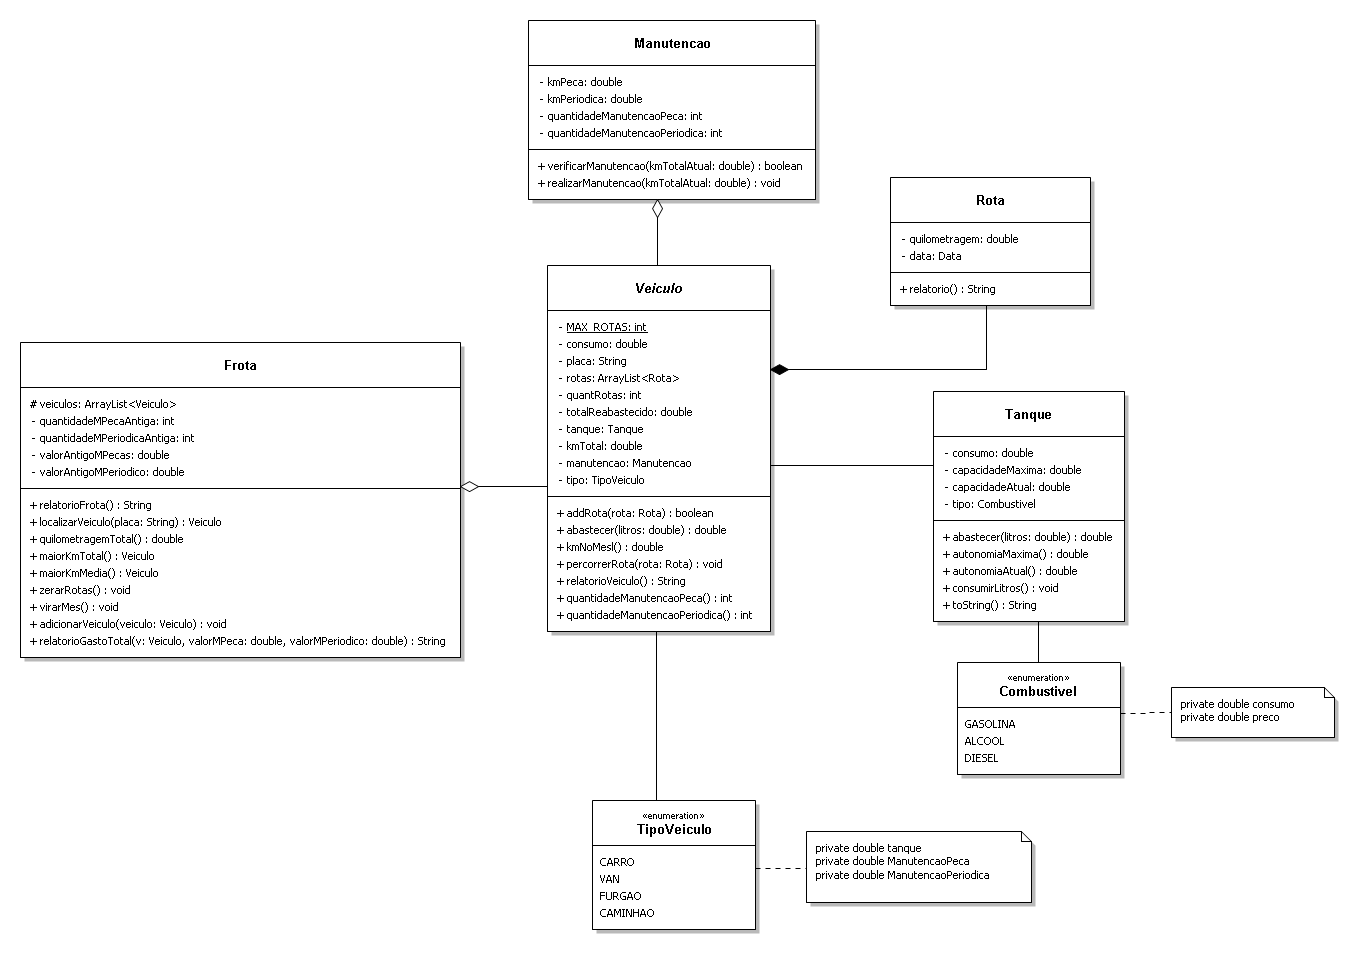
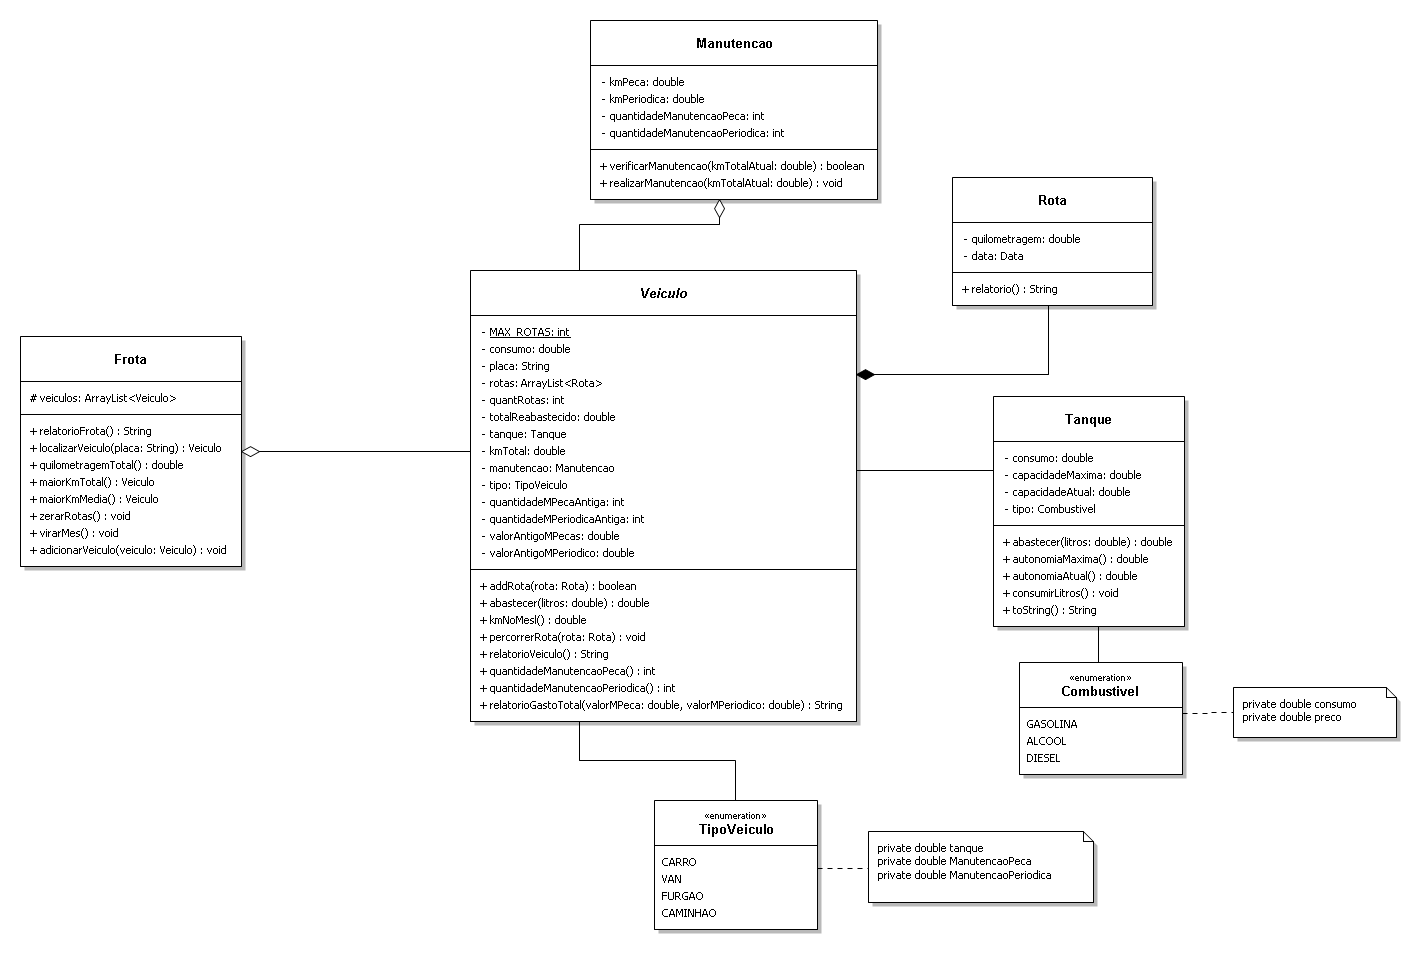
fim

diff --git a/codigo/Veiculo.java b/codigo/Veiculo.java
@@ -13,6 +13,10 @@ public class Veiculo {
     private double kmTotal;
     private Manutencao manutencao;
     private TipoVeiculo tipo;
+    private  int quantidadeMPecasAntiga;
+    private  int quantidadeMPeriodicaAntiga;
+    private  double valorAntigoMPecas;
+    private  double valorAntigoMPeriodica;
     DecimalFormat df = new DecimalFormat("#.##");
 
     static {
@@ -35,6 +39,10 @@ public class Veiculo {
         this.tanque = new Tanque(tipo.getTanque(), tipoCombustivel);
         this.manutencao = new Manutencao(tipo.getManutencaoPeriodica(), tipo.getManutencaoPeca());
         this.consumo = tanque.getConsumo();
+        this.quantidadeMPeriodicaAntiga = 0;
+        this.quantidadeMPecasAntiga = 0;
+        this.valorAntigoMPecas = 0;
+        this.valorAntigoMPeriodica = 0;
     }
 
     /**
@@ -133,21 +141,67 @@ public class Veiculo {
     }
 
     /**
-     * Método que chama o método da classe manutenção para calcular a quantidade
-     * de manutenções de peças realizadas por um veículo.
-     * @return inteiro com a quantidade de manutenções feitas.
+     * Método que calcula o gasto total de determinado veículo, considerando os
+     * valores de manutenção
+     * periodica, manutenção de peças e gastos em combustível, de acordo com a
+     * quantidade de recorrência de
+     * cada. 
+     * 
+     * @param valorMPeca      parâmetro do tipo double que indica o valor da
+     *                        manutenção de peça.
+     * 
+     * @param valorMPeriodico parâmetro do tipo double que indica o valor da
+     *                        manutenção periódica.
+     * 
+     * @return retorna o gasto total, obtido pela soma do gastos totais com
+     *         combustível, manutenção periodica
+     *         e manutenção de peças
      */
-    public int quantidadeManutencaoPeca(){
-        return manutencao.getQuantidadeManutencaoPeca();
-    }
+ 
+    public String relatorioGastoTotal(double valorMPeca, double valorMPeriodico) {
 
-    /**
-     * * Método que chama o método da classe manutenção para calcular a quantidade
-     * de manutenções períodicas realizadas por um veículo.
-     * @return inteiro com a quantidade de manutenções feitas
-     */
-    public int quantidadeManutencaoPeriodica(){
-        return manutencao.getQuantidadeManutencaoPeriodica();
+        StringBuilder str = new StringBuilder();
+        DecimalFormat df = new DecimalFormat("#.##");
+
+        int quantidadeAtualPeca = manutencao.getQuantidadeManutencaoPeca();
+        int quantidadeAtualPeriodica = manutencao.getQuantidadeManutencaoPeriodica();
+
+        if(manutencao.getQuantidadeManutencaoPeca() > 0){
+            quantidadeAtualPeca = manutencao.getQuantidadeManutencaoPeca() - quantidadeMPecasAntiga;
+        }
+
+        if(manutencao.getQuantidadeManutencaoPeriodica() > 0){
+            quantidadeAtualPeriodica = manutencao.getQuantidadeManutencaoPeriodica() -  quantidadeMPeriodicaAntiga;
+        }
+
+        double gastoEmCombustivel = totalReabastecido * tanque.getPrecoCombustivel();
+        double valorManutencaoPeriodica = (quantidadeAtualPeriodica * valorMPeriodico);
+        double valorManutencaoPeca = (quantidadeAtualPeca * valorMPeca);
+
+        str.append("O gasto total do veículo de placa " + placa + " foi: ");
+
+        str.append("\nQuantidade de manutenção periódica: " + manutencao.getQuantidadeManutencaoPeriodica() + " - Valor: R$"
+                + df.format((valorManutencaoPeriodica+valorAntigoMPeriodica)));
+
+        str.append("\nQuantidade de manutenção em peças: " + manutencao.getQuantidadeManutencaoPeca() + " - Valor: R$"
+                + df.format((valorManutencaoPeca+valorAntigoMPecas)));
+
+        str.append("\nTotal reabastecido pelo carro: " + df.format(totalReabastecido)+" litros"+ " - Valor: R$"
+                + df.format(gastoEmCombustivel));
+
+        str.append("\nValor total gasto: R$"
+                + df.format(gastoEmCombustivel + (valorManutencaoPeca+valorAntigoMPecas) + (valorManutencaoPeriodica+valorAntigoMPeriodica)));
+ 
+        if(manutencao.getQuantidadeManutencaoPeca()>0){
+            valorAntigoMPecas += valorManutencaoPeca;
+        }
+        if(manutencao.getQuantidadeManutencaoPeriodica()>0){
+            valorAntigoMPeriodica += valorMPeriodico;
+        }
+
+        quantidadeMPecasAntiga = manutencao.getQuantidadeManutencaoPeca();
+        quantidadeMPeriodicaAntiga = manutencao.getQuantidadeManutencaoPeriodica();
+            return str.toString();
     }
 
     /**

diff --git a/codigo/Frota.java b/codigo/Frota.java
@@ -5,18 +5,9 @@ import java.util.Comparator;
 public class Frota {
 
     protected ArrayList<Veiculo> veiculos;
-    private  int quantidadeMPecasAntiga;
-    private  int quantidadeMPeriodicaAntiga;
-    private  double ValorAntigoMPecas;
-    private  double ValorAntigoMPeriodica;
-
 
     public Frota() {
         this.veiculos = new ArrayList<Veiculo>();
-        quantidadeMPeriodicaAntiga = 0;
-        quantidadeMPecasAntiga = 0;
-        ValorAntigoMPecas = 0;
-        ValorAntigoMPeriodica = 0;
     }
 
     /**
@@ -142,74 +133,5 @@ public class Frota {
     public void adicionarVeiculo(Veiculo veiculo) {
         veiculos.add(veiculo);
         veiculos.sort(Comparator.comparing(Veiculo::getPlaca));
-    }
-
-    /**
-     * Método que calcula o gasto total de determinado veículo, considerando os
-     * valores de manutenção
-     * periodica, manutenção de peças e gastos em combustível, de acordo com a
-     * quantidade de recorrência de
-     * cada. Para encontrar o veículo cuja placa foi passada como parâmetro, usa-se
-     * Stream para percorrer a
-     * lista de veículos e localizar a placa desejada.
-     * 
-     * @param placa           parâmetro do tipo String que passa a placa do veículo
-     *                        cujo gasto total será
-     *                        calculado.
-     * 
-     * @param valorMPeca      parâmetro do tipo double que indica o valor da
-     *                        manutenção de peça.
-     * 
-     * @param valorMPeriodico parâmetro do tipo double que indica o valor da
-     *                        manutenção periódica.
-     * 
-     * @return retorna o gasto total, obtido pela soma do gastos totais com
-     *         combustível, manutenção periodica
-     *         e manutenção de peças
-     */
-    public String relatorioGastoTotal(Veiculo v, double valorMPeca, double valorMPeriodico) {
-
-        StringBuilder str = new StringBuilder();
-        DecimalFormat df = new DecimalFormat("#.##");
-
-        int quantidadeAtualPeca = v.quantidadeManutencaoPeca();
-        int quantidadeAtualPeriodica = v.quantidadeManutencaoPeriodica();
-
-        if(v.quantidadeManutencaoPeca() > 0){
-            quantidadeAtualPeca = v.quantidadeManutencaoPeca() - quantidadeMPecasAntiga;
-        }
-
-        if(v.quantidadeManutencaoPeriodica() > 0){
-            quantidadeAtualPeriodica =v.quantidadeManutencaoPeriodica() -  quantidadeMPeriodicaAntiga;
-        }
-
-        double gastoEmCombustivel = v.getTotalReabastecido() * v.getTanque().getPrecoCombustivel();
-        double valorManutencaoPeriodica = (quantidadeAtualPeriodica * valorMPeriodico);
-        double valorManutencaoPeca = (quantidadeAtualPeca * valorMPeca);
-
-        str.append("O gasto total do veículo de placa " + v.getPlaca() + " foi: ");
-
-        str.append("\nQuantidade de manutenção periódica: " + v.quantidadeManutencaoPeriodica() + " - Valor: R$"
-                + df.format((valorManutencaoPeriodica+ValorAntigoMPeriodica)));
-
-        str.append("\nQuantidade de manutenção em peças: " + v.quantidadeManutencaoPeca() + " - Valor: R$"
-                + df.format((valorManutencaoPeca+ValorAntigoMPecas)));
-
-        str.append("\nTotal reabastecido pelo carro: " + df.format(v.getTotalReabastecido())+" litros"+ " - Valor: R$"
-                + df.format(gastoEmCombustivel));
-
-        str.append("\nValor total gasto: R$"
-                + df.format(gastoEmCombustivel + (valorManutencaoPeca+ValorAntigoMPecas) + (valorManutencaoPeriodica+ValorAntigoMPeriodica)));
- 
-        if(v.quantidadeManutencaoPeca()>0){
-            ValorAntigoMPecas += valorManutencaoPeca;
-        }
-        if(v.quantidadeManutencaoPeriodica()>0){
-            ValorAntigoMPeriodica += valorMPeriodico;
-        }
-
-        quantidadeMPecasAntiga = v.quantidadeManutencaoPeca();
-        quantidadeMPeriodicaAntiga = v.quantidadeManutencaoPeriodica();
-            return str.toString();
-    }
+    }   
 }

diff --git a/codigo/App.java b/codigo/App.java
@@ -300,7 +300,7 @@ public class App {
             System.out.println("Digite o valor da manutenção da períodica: ");
             double valorPeriodico = sc.nextDouble();
 
-            System.out.println(frota.relatorioGastoTotal(v, valorPeca, valorPeriodico));
+            System.out.println(v.relatorioGastoTotal(valorPeca, valorPeriodico));
         }catch(NullPointerException n) {
             System.out.println("Veículo não encontrado");
         }catch(InputMismatchException i){
